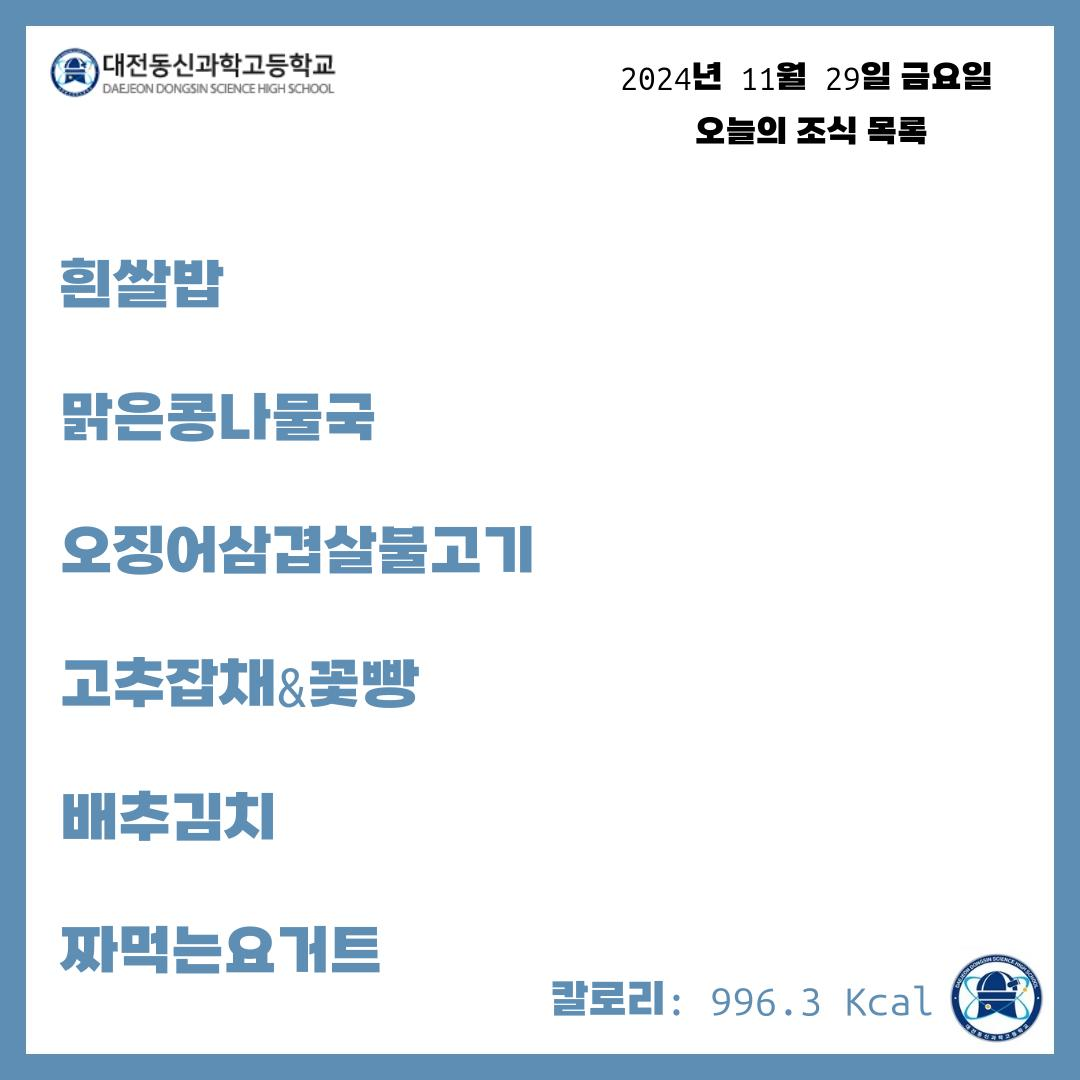
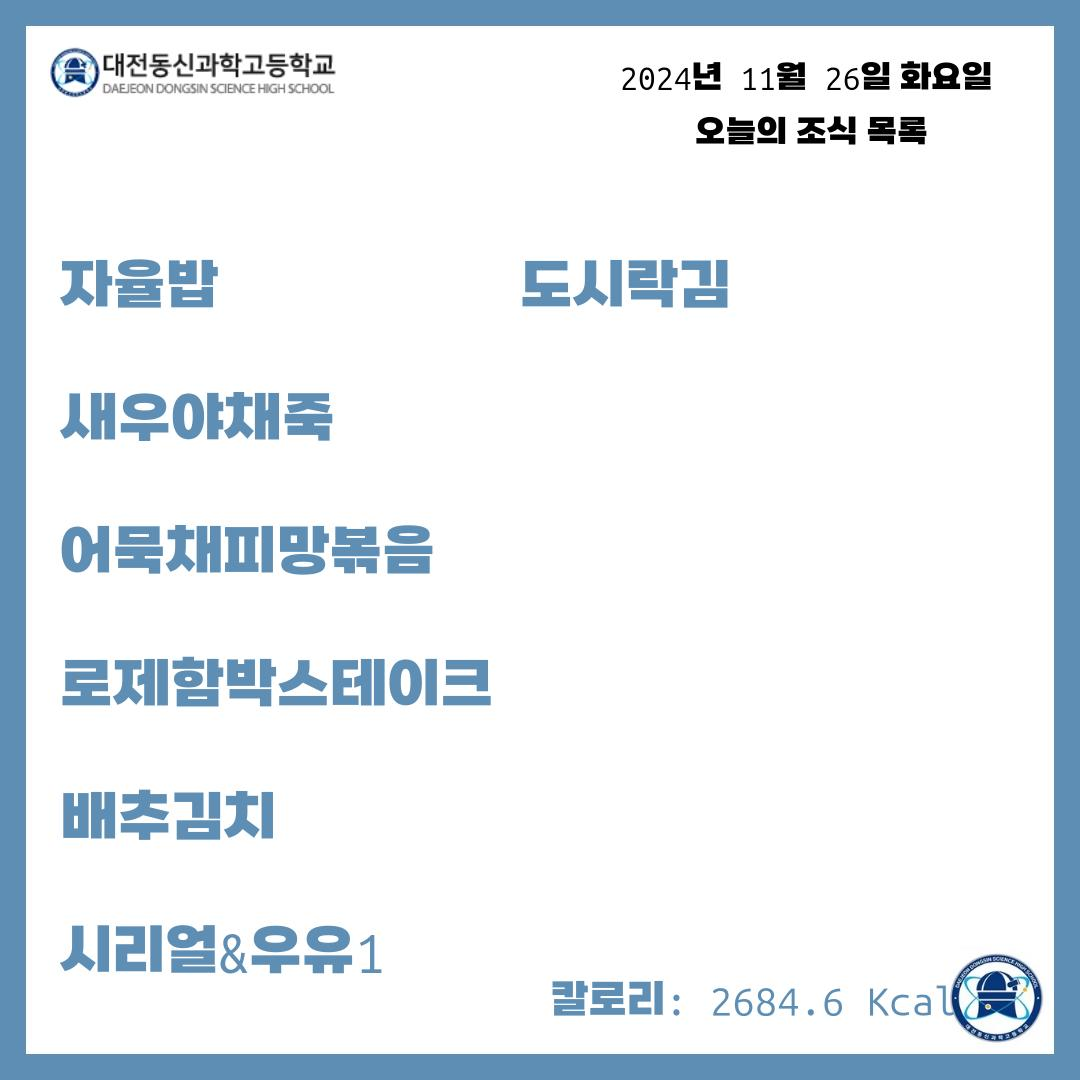
env example

diff --git a/index.js b/index.js
@@ -3,4 +3,4 @@ const { drawmenu } = require('./function/Insta/writemenu');
 
 //getMeal(0);
 
-drawmenu(3);
+drawmenu(0);
